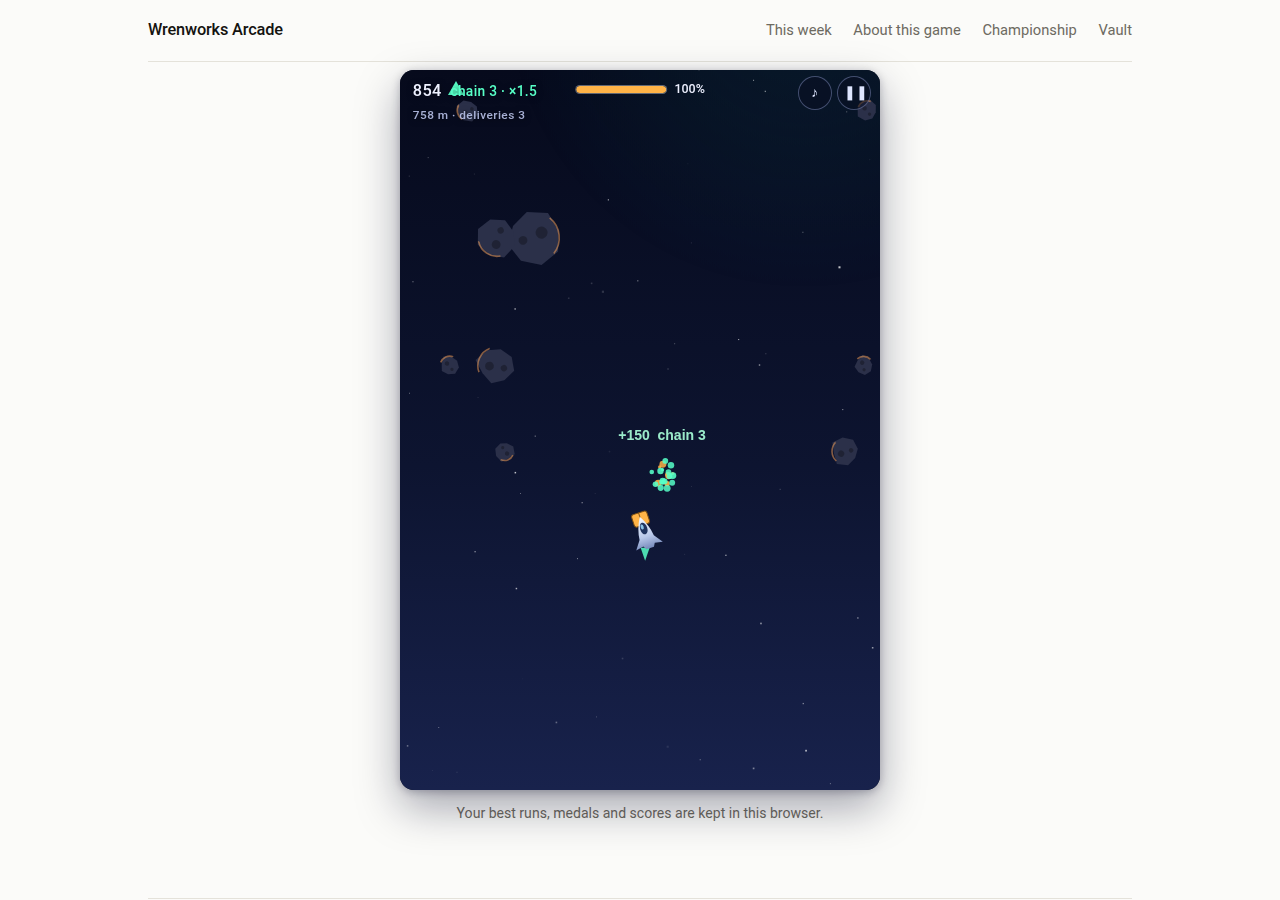
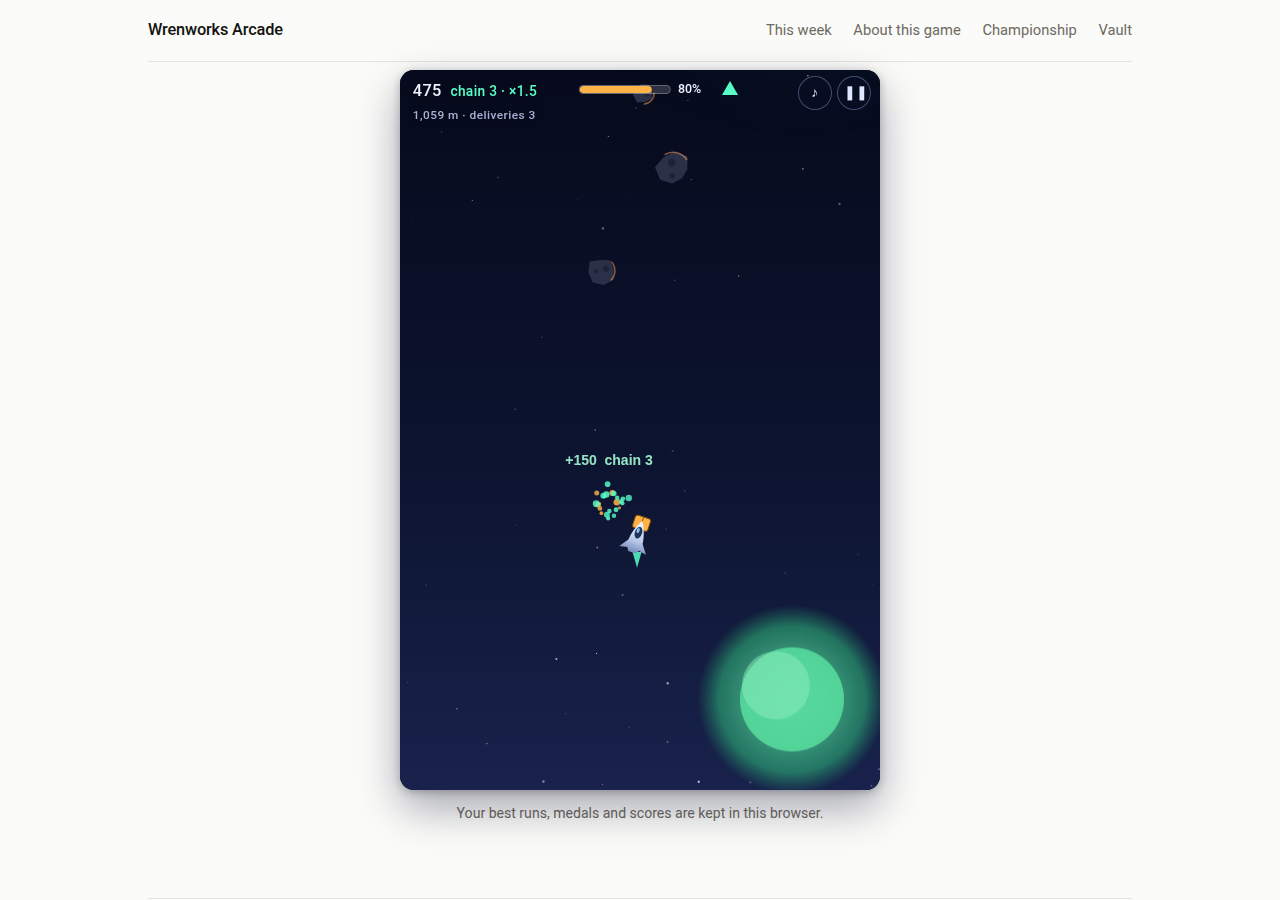
Starfall Post v1.2: owner playtest fixes (FD-037)
Invisible bottom rocks fixed (render window now strictly wider than
the collision window; parity suite 506k checks, 0 violations).
Height throttle removed - scroll is a function of depth only.
Ramp plateaus sooner and harder. Camping closed: no depth points,
beacons never on the safe line, delivery/near-miss credit gated on
recent flight; parked ships die scoreless in under a minute.
Re-gated in full (addendum: f006-game-starfall-post-v12-report.md).

diff --git a/play/starfall-post/starfall-core.js b/play/starfall-post/starfall-core.js
@@ -16,7 +16,24 @@
    speed and stops when the input stops — no momentum, no drift, no
    wind-push; the lane's scroll, density, patterns and bosses are the
    difficulty. A run ends only when the parcel breaks (five hits).
-   The district campaign, the daily lane and the modifiers are gone. */
+   The district campaign, the daily lane and the modifiers are gone.
+
+   v1.2 (FD-037, owner's playtest of the live v1.1) fixes four
+   things. (1) The render list (snapshot) now covers every rock the
+   collision pass can touch: v1.1 rendered only rocks down to 60 px
+   of depth behind the ship's anchor while collisions ran to 320 px
+   behind, so rocks in the bottom band could hit invisibly —
+   anything collidable is now drawn until it is fully past the
+   bottom and out of reach. (2) The height throttle is gone: flying
+   high no longer speeds the lane up, nor dropping back slow it —
+   scroll is a function of depth only. (3) The ramp bites sooner
+   and plateaus harder (full hardness from ~34,000 px, past every
+   v1.1 plateau value). (4) Camping is dead: depth pays nothing,
+   beacons are never placed on the safe centre line (you must leave
+   it to deliver), and delivery + near-miss credit require the ship
+   to have actually flown in the last second or so — a parked ship
+   scores nothing and, outside the corridor's passing shelter,
+   does not live long either. */
 (function (global) {
 "use strict";
 
@@ -29,7 +46,8 @@ var SHIP_VY = 250;
 var HIT_DAMAGE = 20;           /* parcel integrity lost per meteor hit */
 var CAPTURE_R = 58;            /* beacon delivery radius (screen px) */
 var NEAR_R = 17;               /* extra px beyond touching = near miss */
-var DEPTH_POINTS = 0.05;       /* score per px flown: 1 point per 20 px */
+/* v1.2: there are no depth points. The score is deliveries, near
+   misses and boss bonuses — all of it earned by flying. */
 
 /* ---------------- the lane ---------------- */
 var SEED = "starfall-post";    /* the one canonical seed, for everyone */
@@ -72,17 +90,20 @@ function chunkHash(chunk) {
 /* ---------------- the ramp ----------------
    Every difficulty parameter is a function of depth (px). All rise
    together from a gentle opening to a hard plateau reached at
-   roughly 60,000 px (about five minutes into a surviving run) and
-   sustained from there — the lane never gets easier again, and the
-   corridor guarantee (§ lane generation) holds at every depth, so
-   the limit on a run is always the pilot, never the geometry.
+   roughly 34,000 px (about two and a half minutes into a surviving
+   run) and sustained from there — the lane never gets easier
+   again, and the corridor guarantee (§ lane generation) holds at
+   every depth, so the limit on a run is always the pilot, never
+   the geometry. (v1.2: the ramp bites sooner and its plateau sits
+   past v1.1's on every axis — scroll 250 → 275, row gap 52 → 46,
+   extra-rock 0.92 → 0.97, sway 72 → 84, corridor halfW 62 → 58.)
    On top of the ramp sit the mini-bosses (§ below): the first at
    24,000 px, then one every 30,000 px. */
-function scrollAt(d) { return Math.min(250, 158 + d * 0.0016); }
-function gapAt(d)    { return Math.max(52, 118 - d * 0.0011); }
-function extraAt(d)  { return Math.min(0.92, 0.34 + d * 0.000010); }
-function driftAt(d)  { return Math.min(72, 16 + d * 0.00095); }
-function halfWAt(d)  { return Math.max(62, 82 - d * 0.00033); }
+function scrollAt(d) { return Math.min(275, 175 + d * 0.0029); }
+function gapAt(d)    { return Math.max(46, 108 - d * 0.0018); }
+function extraAt(d)  { return Math.min(0.97, 0.42 + d * 0.000016); }
+function driftAt(d)  { return Math.min(84, 22 + d * 0.0018); }
+function halfWAt(d)  { return Math.max(58, 80 - d * 0.00064); }
 function paramsAt(d) {
   return { scroll: scrollAt(d), gap: gapAt(d), extra: extraAt(d),
            drift: driftAt(d), halfW: halfWAt(d) };
@@ -90,10 +111,13 @@ function paramsAt(d) {
 
 /* ---------------- medals (best-run achievements) ----------------
    A run earns the highest medal whose BOTH marks it reaches: depth
-   in px and deliveries. Calibrated from the policy-bot death
-   distribution and the cold playtest (see the v1.1 report): bronze
-   is a learner's good first run, Wren is a deep-lane feat that also
-   demands a long unbroken chain. */
+   in px and deliveries. Calibrated on the cold playtests (v1.1
+   report §7; v1.2 report §7 re-checked them against the harder
+   lane and kept them): in the v1.2 cold session, trying runs
+   banked Bronze routinely (1,900–2,200 m, 7 deliveries), the best
+   run earned Silver (4,289 m, 12 deliveries), and Gold and Wren
+   stayed unbanked — bronze is a learner's good run, Wren a
+   deep-lane feat that also demands a long unbroken chain. */
 var MEDAL_MARKS = [
   { medal: "wren",   depth: 72000, deliveries: 24, chain: 10 },
   { medal: "gold",   depth: 48000, deliveries: 16, chain: 0 },
@@ -271,7 +295,16 @@ function generateChunk(idx) {
   var beacons = [];
   for (var i = 0; i < 2; i++) {
     var bd = from + (i + 0.5) * CHUNK / 2 + (rng() - 0.5) * 800;
-    var bx = corridorCenter(ph, bd) + (rng() - 0.5) * 250;
+    /* v1.2: a beacon is never placed on or near the safe centre
+       line — the offset is always 70–150 px to one side (mirrored
+       at the field edges so the offset survives). Sitting in the
+       corridor keeps you alive; it never delivers anything. The
+       job is always out on the rock side of the lane. */
+    var ctr = corridorCenter(ph, bd);
+    var off = (70 + rng() * 80) * (rng() < 0.5 ? -1 : 1);
+    var bx = ctr + off;
+    if (bx < 56) bx = ctr - off;
+    if (bx > W - 56) bx = ctr - off;
     if (bx < 56) bx = 56; if (bx > W - 56) bx = W - 56;
     beacons.push({ depth: Math.round(bd), x: Math.round(bx) });
   }
@@ -288,6 +321,12 @@ function createRun() {
     integrity: 100, invulnT: 0,
     chain: 0, bestChain: 0, lastDeliveryT: -99,
     deliveries: 0, nearMisses: 0, hits: 0,
+    /* v1.2 anti-camping: recent self-driven flight, in px, decayed
+       with a ~0.9 s half-life each step and topped up by the ship's
+       actual movement. Deliveries and near-miss credit require it
+       to be at least ACTIVITY_MIN — the lane only pays a pilot who
+       is flying. */
+    recentMove: 0,
     raw: 0, done: false, cleared: false,
     bosses: 0, nextBoss: 0, bossWarned: -1,
     chunks: {},
@@ -340,6 +379,8 @@ function meteorX(state, m) {
 function shipDepthOf(state) { return state.depth + (ANCHOR_Y - state.ship.y); }
 function screenY(state, depth) { return ANCHOR_Y - (depth - shipDepthOf(state)); }
 
+var ACTIVITY_MIN = 50;         /* px of recent flight that counts as "flying" */
+
 var STEP_EVENTS = [];
 function stepRun(state, input, dt) {
   STEP_EVENTS.length = 0;
@@ -350,6 +391,7 @@ function stepRun(state, input, dt) {
 
   /* Direct control (FD-035): velocity IS the input. No momentum,
      no drag, no wind — the position is the player's, exactly. */
+  var px0 = s.x, py0 = s.y;
   s.vx = input.x * SHIP_VX;
   s.vy = input.y * SHIP_VY;
   s.x += s.vx * dt;
@@ -358,13 +400,17 @@ function stepRun(state, input, dt) {
   if (s.x > W - 22) s.x = W - 22;
   if (s.y < 92) s.y = 92;
   if (s.y > H - 64) s.y = H - 64;
+  /* anti-camping bookkeeping: how much the ship actually moved
+     under its pilot in roughly the last second */
+  var moved = Math.sqrt((s.x - px0) * (s.x - px0) + (s.y - py0) * (s.y - py0));
+  state.recentMove = state.recentMove * Math.pow(0.5, dt / 0.9) + moved;
 
-  /* forward speed: the ramp's scroll at this depth, faster flown
-     high, slower flown low; depth itself pays a steady trickle */
-  var factor = 1 + (ANCHOR_Y - s.y) / ANCHOR_Y * 0.35;
-  var prevDepth = state.depth;
-  state.depth += scrollAt(state.depth) * factor * dt;
-  state.raw += (state.depth - prevDepth) * DEPTH_POINTS;
+  /* forward speed: the ramp's scroll at this depth, and nothing
+     else (v1.2 — the height throttle is gone: wherever the ship
+     sits on screen, the lane runs at exactly this rate). Depth
+     itself pays nothing; the score is earned by flying (§ scoring
+     in the beacon and meteor passes below). */
+  state.depth += scrollAt(state.depth) * dt;
   var sd = shipDepthOf(state);
 
   if (state.invulnT > 0) state.invulnT -= dt;
@@ -416,7 +462,9 @@ function stepRun(state, input, dt) {
     }
     if (by > H + 140) continue;
     var bdx = b.x - s.x, bdy = by - s.y;
-    if (bdx * bdx + bdy * bdy < CAPTURE_R * CAPTURE_R) {
+    /* a ring only pays a pilot who is flying (v1.2): drift into it
+       parked and it passes unclaimed, like any beacon let go by */
+    if (bdx * bdx + bdy * bdy < CAPTURE_R * CAPTURE_R && state.recentMove >= ACTIVITY_MIN) {
       b.done = "delivered";
       state.chain += 1;
       if (state.chain > state.bestChain) state.bestChain = state.chain;
@@ -452,7 +500,11 @@ function stepRun(state, input, dt) {
     if (rel < -320) {                       /* fully behind: settle near-miss */
       if (!m.settled) {
         m.settled = true;
-        if (!m.hit && m.minDist != null && m.minDist < m.r + SHIP_R + NEAR_R) {
+        /* near-miss credit only for a pass the pilot actually flew
+           (v1.2): activePass is set below, at closest approach, if
+           the ship was flying then. A rock drifting past a parked
+           ship settles silently. */
+        if (!m.hit && m.activePass && m.minDist != null && m.minDist < m.r + SHIP_R + NEAR_R) {
           state.nearMisses += 1; state.raw += 25;
           ev({ type: "nearMiss", gained: 25, x: meteorX(state, m), y: screenY(state, m.depth) });
         }
@@ -464,6 +516,7 @@ function stepRun(state, input, dt) {
     var dx = mx - s.x, dy = my - s.y;
     var dist = Math.sqrt(dx * dx + dy * dy);
     if (m.minDist == null || dist < m.minDist) m.minDist = dist;
+    if (dist < m.r + SHIP_R + NEAR_R && state.recentMove >= ACTIVITY_MIN) m.activePass = true;
     if (state.invulnT <= 0 && dist < m.r + SHIP_R - 2) {
       m.hit = true; m.dead = true;
       registerHit(mx, my);
@@ -478,6 +531,7 @@ function finalScore(state) { return Math.round(state.raw); }
    objects carry the delivery/death flags. Boss state (nextBoss,
    bossWarned) is plain data and revives with the state. */
 function reviveRun(state) {
+  if (state.recentMove == null) state.recentMove = 0;   /* snapshots predating the field */
   ensureChunks(state); collectEndless(state);
   return state;
 }
@@ -492,22 +546,33 @@ function nextBeacon(state) {
 function snapshot(state) {
   var sd = shipDepthOf(state);
   var nb2 = nextBeacon(state);
+  var boss = bossOf(state, state.nextBoss);
   var near = [], ms = state.meteors;
   for (var i = 0; i < ms.length; i++) {
     var m = ms[i];
     if (m.dead) continue;
     var rel = m.depth - sd;
-    if (rel < -60 || rel > 900) continue;
+    /* Render window (v1.2 parity fix, FD-037): this list IS what
+       the page draws, so it must contain every rock the collision
+       pass can touch. Collisions are evaluated for rel in
+       [-320, 900]; the window here is wider on both ends, so a
+       rock is drawn until it is fully past the bottom of the
+       screen (rel -380 → screen y 812, below the 720 field with
+       its whole radius) and beyond collision reach (the lowest a
+       ship can sit is y 656; a rock centred at 752+ can no longer
+       touch it). In v1.1 this window stopped at rel -60 — rocks
+       vanished at screen y 492 and stayed lethal for another
+       260 px of travel. That was the invisible-asteroid bug. */
+    if (rel < -380 || rel > 940) continue;
     near.push({ x: meteorX(state, m), y: screenY(state, m.depth), r: m.r, depth: m.depth,
                 baseX: m.x, drift: m.drift, phase: m.phase, spin: m.spin });
   }
-  var boss = bossOf(state, state.nextBoss);
   if (boss && boss.pattern === 1 && sd > boss.start - 1200 && sd < boss.end + 400) {
     var orocks2 = orbitRocks(state, boss);
     for (var j = 0; j < orocks2.length; j++) {
       var or2 = orocks2[j];
       var rel2 = or2.depth - sd;
-      if (rel2 < -60 || rel2 > 900) continue;
+      if (rel2 < -380 || rel2 > 940) continue;   /* same render window as the field (v1.2 parity) */
       near.push({ x: or2.x, y: screenY(state, or2.depth), r: or2.r, depth: Math.round(or2.depth),
                   baseX: or2.x, drift: 0, phase: 0, spin: or2.spin });
     }

diff --git a/play/starfall-post/starfall.js b/play/starfall-post/starfall.js
@@ -7,7 +7,13 @@
    the deep lane. The district campaign, the free/daily lanes, the
    seed box and the modifiers are gone. Saves moved to v3 keys: v1.0
    campaign records and v1.1-district snapshots do not carry into
-   the endless game (passport records are the adapter's and stay). */
+   the endless game (passport records are the adapter's and stay).
+
+   v1.2 (FD-037): the owner's fix round — the bottom-band render
+   fix, no height throttle, a harder ramp, and no score for sitting
+   still (all in the core). Score semantics changed (depth pays
+   nothing now), so saves move to v4 keys; v3 records do not carry
+   (passport records are the adapter's and stay). */
 (function () {
 "use strict";
 var Core = window.StarfallCore;
@@ -115,7 +121,7 @@ var Sound = {
 document.addEventListener("pointerdown", function () { Sound.ensure(); }, { once: true });
 
 /* ---------------- save ---------------- */
-var SAVE_KEY = "starfall.save.v3";
+var SAVE_KEY = "starfall.save.v4";
 function loadSave() {
   try {
     var s = JSON.parse(localStorage.getItem(SAVE_KEY));
@@ -133,7 +139,7 @@ var save = loadSave();
  * is written the moment anything is earned, so a refresh can never
  * lose it; the snapshot additionally lets a mid-run pilot pick the
  * run itself back up. */
-var RUN_KEY = "starfall.run.v3";
+var RUN_KEY = "starfall.run.v4";
 function snapshotRun() {
   if (!run || run.done || screen !== "run") return;
   try {
@@ -342,6 +348,7 @@ function medalDot(m) {
 function showStart() {
   screen = "start";
   hud.hidden = true;
+  particles.length = 0; floaters.length = 0; effects.length = 0; /* no run debris over the panel */
   overlay.style.display = "flex";
   var record = "";
   if (save.bestScore > 0) {
@@ -376,6 +383,10 @@ function showStart() {
 function showResults(st, final, medal, newBest) {
   screen = "results";
   hud.hidden = true;
+  /* clear the run's floaters/particles: they only advance during a
+     run, so a leftover "Parcel hit" floater would otherwise hang
+     frozen behind the results panel forever (cold playtest v1.2) */
+  particles.length = 0; floaters.length = 0; effects.length = 0;
   overlay.style.display = "flex";
   var depthM = fmtScore(Math.round(st.depth / 10));
   var medalRow = medal !== "none"
@@ -613,8 +624,10 @@ function drawShip(st, time) {
   ctx.save();
   ctx.translate(s.x, s.y);
   if (st.invulnT > 0 && Math.sin(time * 26) > 0.2) ctx.globalAlpha = 0.45;
-  /* engine flame */
-  var fl = 13 + Math.sin(time * 42) * 3 + (Core.ANCHOR_Y - s.y) * 0.02;
+  /* engine flame — longer while the ship is climbing (v1.2: it no
+     longer grows with height itself; the lane runs at one speed
+     wherever the ship sits) */
+  var fl = 13 + Math.sin(time * 42) * 3 + Math.max(0, -s.vy) * 0.03;
   ctx.fillStyle = "rgba(87,255,199,0.85)";
   ctx.beginPath();
   ctx.moveTo(-4.5, 15); ctx.lineTo(0, 15 + Math.max(6, fl)); ctx.lineTo(4.5, 15);
@@ -739,7 +752,7 @@ function stepAttract(dt) {
     var ahead = s.y - m.y;
     if (ahead > 0 && ahead < 240 && Math.abs(m.x - s.x) < m.r + 40) ix += (m.x >= s.x ? -0.7 : 0.7);
   }
-  Core.stepRun(st, { x: Math.max(-1, Math.min(1, ix)), y: (470 - s.y) / 90 }, dt);
+  Core.stepRun(st, { x: Math.max(-1, Math.min(1, ix)), y: (150 - s.y) / 90 }, dt);
   if (st.done) attract = Core.createRun();
 }
 

diff --git a/games/starfall-post/index.html b/games/starfall-post/index.html
@@ -52,11 +52,11 @@
 
 <h2>How it plays</h2>
 <ul>
-  <li><strong>Steer</strong> with the arrow keys or WASD, a mouse drag, or a drag on touch screens. The ship goes where you point it and stops when you stop — no drift, no momentum to fight. Fly high to hurry, low to slow down.</li>
-  <li><strong>The lane:</strong> one endless lane, identical for every player — the same rocks in the same order, every run. The first minute is gentle; after that it keeps getting faster and busier until, a few minutes in, it reaches full hardness and stays there. A first run usually ends within a couple of minutes; a good run lasts five or more.</li>
+  <li><strong>Steer</strong> with the arrow keys or WASD, a mouse drag, or a drag on touch screens. The ship goes where you point it and stops when you stop — no drift, no momentum to fight. The lane runs at one speed wherever you fly: your height is just position — it never speeds the rocks up or slows them down.</li>
+  <li><strong>The lane:</strong> one endless lane, identical for every player — the same rocks in the same order, every run. The first minute is gentle; after that it keeps getting faster and busier until, about two and a half minutes in, it reaches full hardness and stays there. A first run usually ends within a couple of minutes; a good run lasts three or more.</li>
   <li><strong>Mini-bosses:</strong> every so often the lane throws something bigger at you — a wall of rock with one gap, a great boulder with rocks circling it, a slalom of gates. They are survived, not fought: thread through, and the lane pays a bonus. They come back harder.</li>
   <li><strong>Medals:</strong> your best run earns them — bronze, silver, gold, and the Wren medal — for how far you got and how much you delivered on the way. Bronze starts at 1,200 m with 4 deliveries; the Wren asks for the deep lane and a long unbroken chain.</li>
-  <li><strong>One game for everybody:</strong> the same endless lane, the same rocks, for every player. No modes, no settings to tune — the score you fly is the score you get.</li>
+  <li><strong>One game for everybody:</strong> the same endless lane, the same rocks, for every player. No modes, no settings to tune — and no score for sitting still: the lane pays for deliveries, near misses and bosses survived, and every one of them has to be flown.</li>
 </ul>
 <p id="play-slot">
   <a class="btn large" href="../../play/starfall-post/index.html">Play Starfall Post</a>
